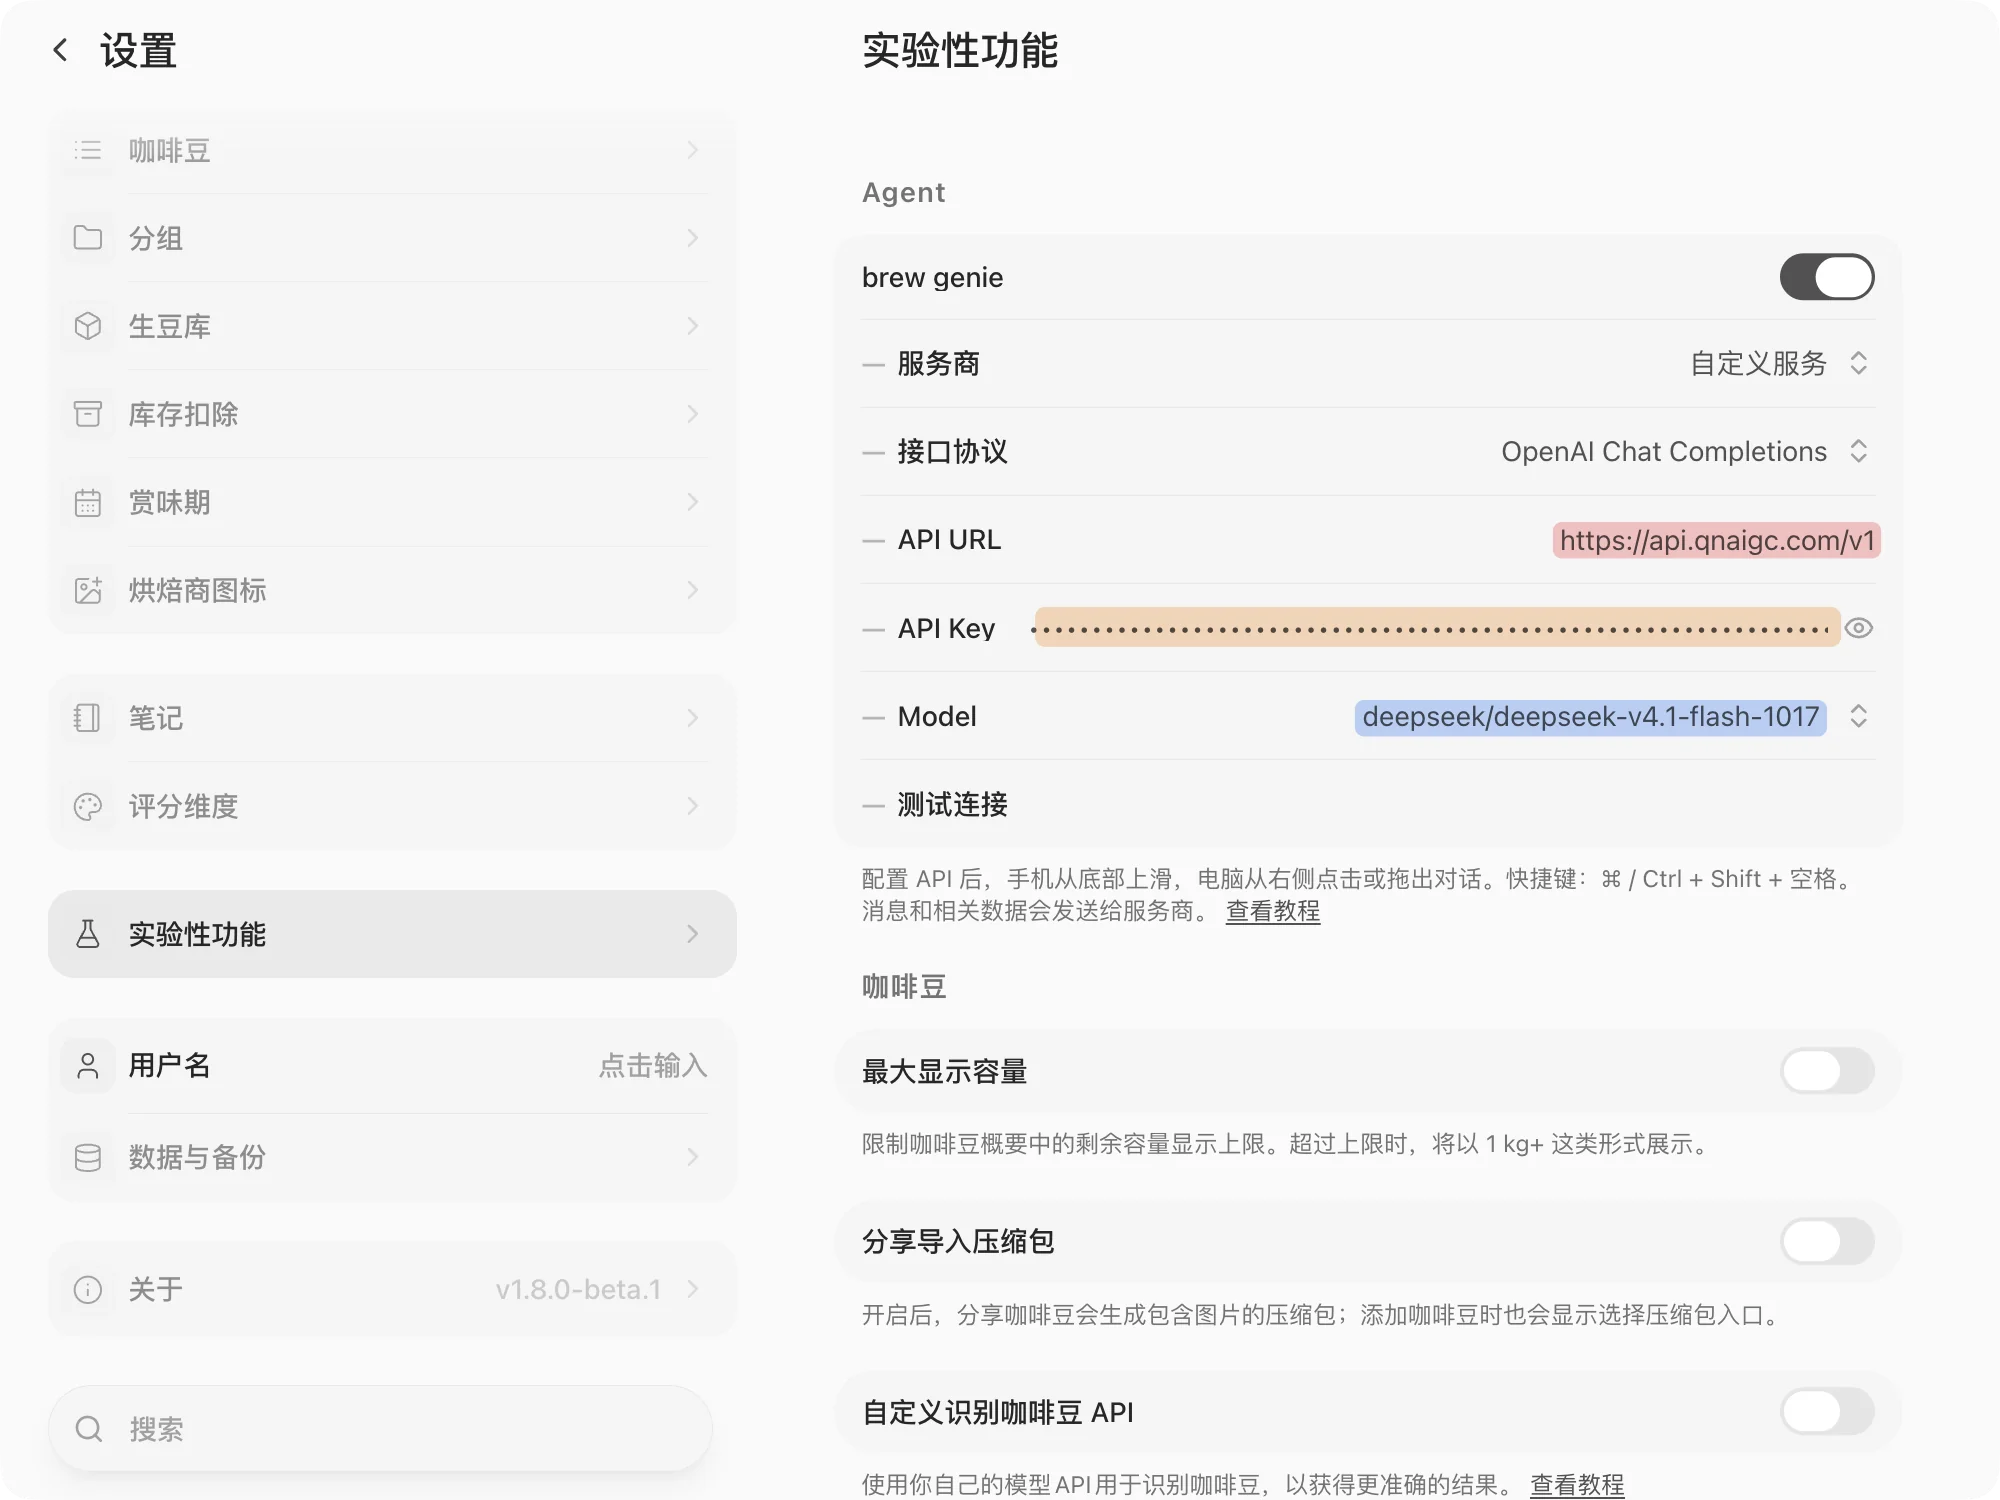
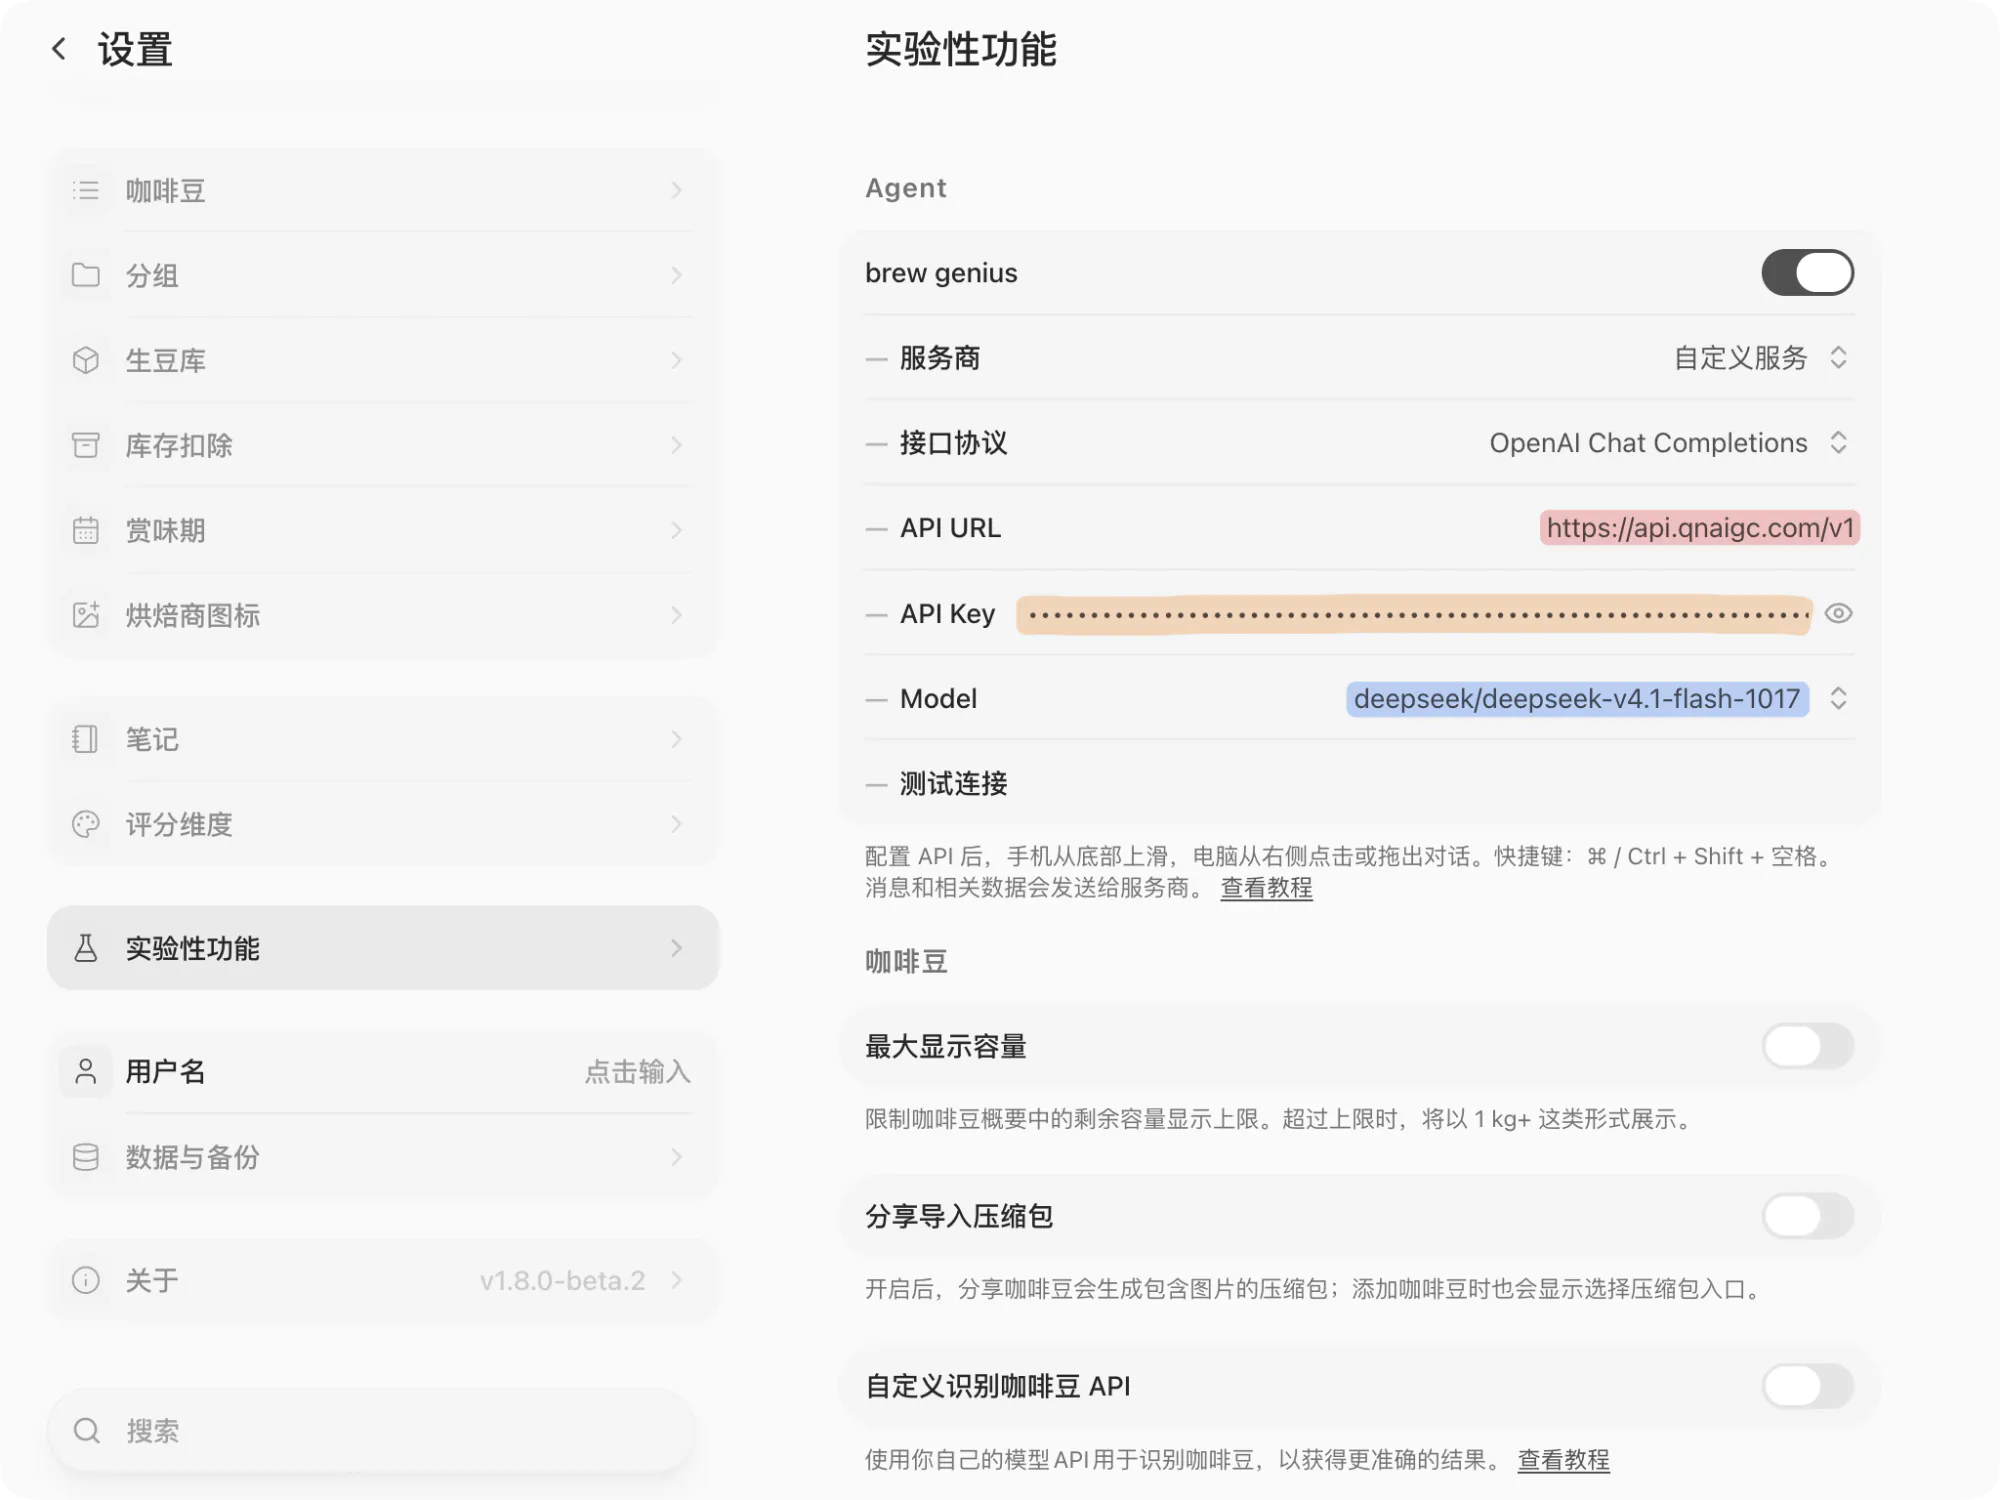
文档（AI）：更新 brew genius 截图和预发布链接

diff --git a/content/docs/brew-genius.md b/content/docs/brew-genius.md
@@ -7,7 +7,7 @@ module: AI
 
 brew genius 可以和你聊咖啡，也能结合已有记录，帮你整理咖啡豆、记录冲煮、调整方案。
 
-该功能从 `1.8.0-beta.1` 开始提供。找不到入口时，请先安装[预发布版本](https://github.com/chuthree/brew-guide/releases/tag/v1.8.0-beta.1)。
+该功能从 `1.8.0-beta.1` 开始提供。找不到入口时，请先安装[预发布版本](https://github.com/chuthree/brew-guide/releases#release-v1.8.0-beta.2)。
 
 ---
 
